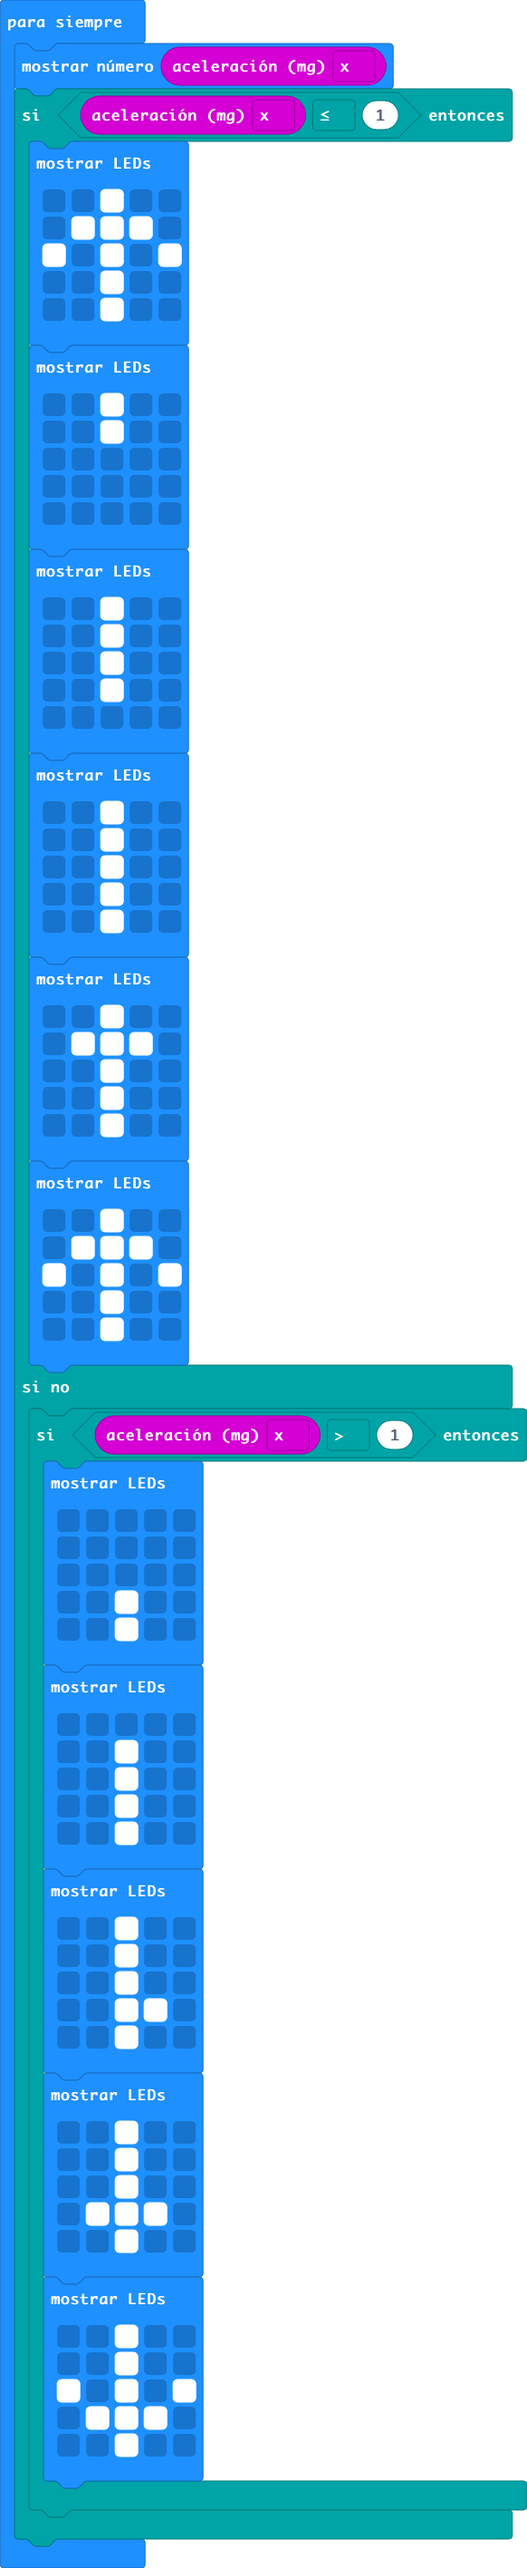
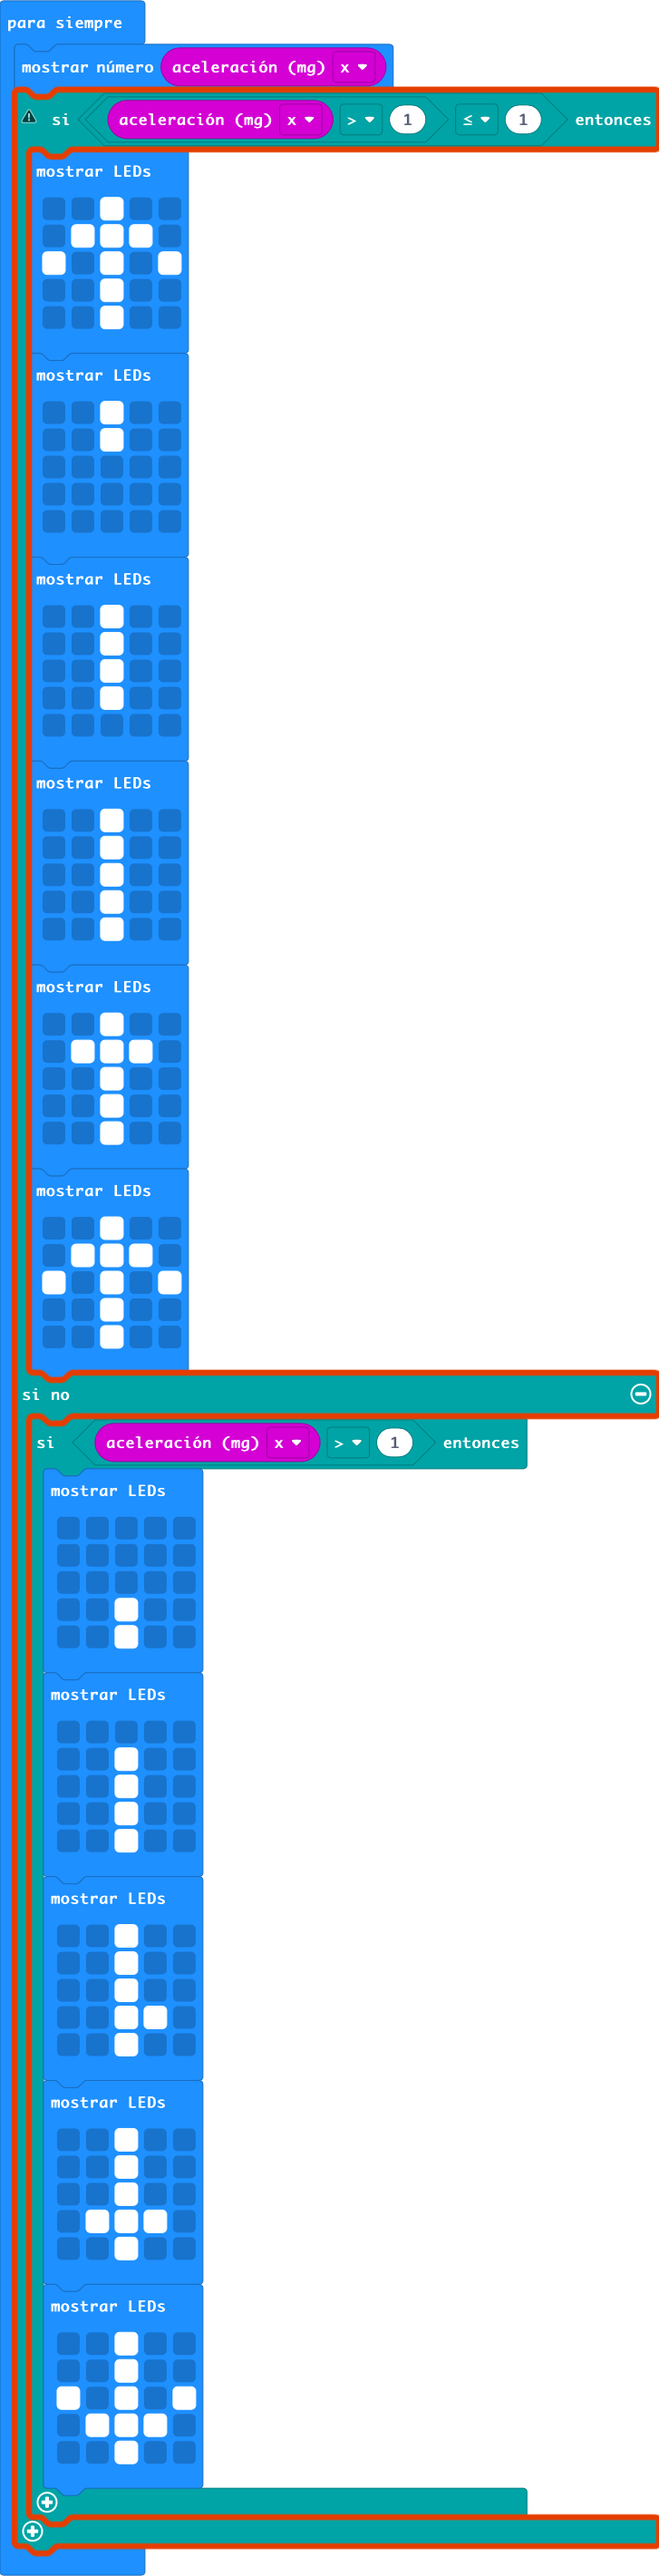
Actualizar main.blocks, main.ts

Changed region(s): [[0.0, 0.0, 1.0, 1.0]]

diff --git a/main.ts b/main.ts
@@ -1,6 +1,6 @@
 basic.forever(function () {
     basic.showNumber(input.acceleration(Dimension.X))
-    if (input.acceleration(Dimension.X) <= 1) {
+    if (input.acceleration(Dimension.X) > 1 <= 1) {
         basic.showLeds(`
             . . # . .
             . # # # .
